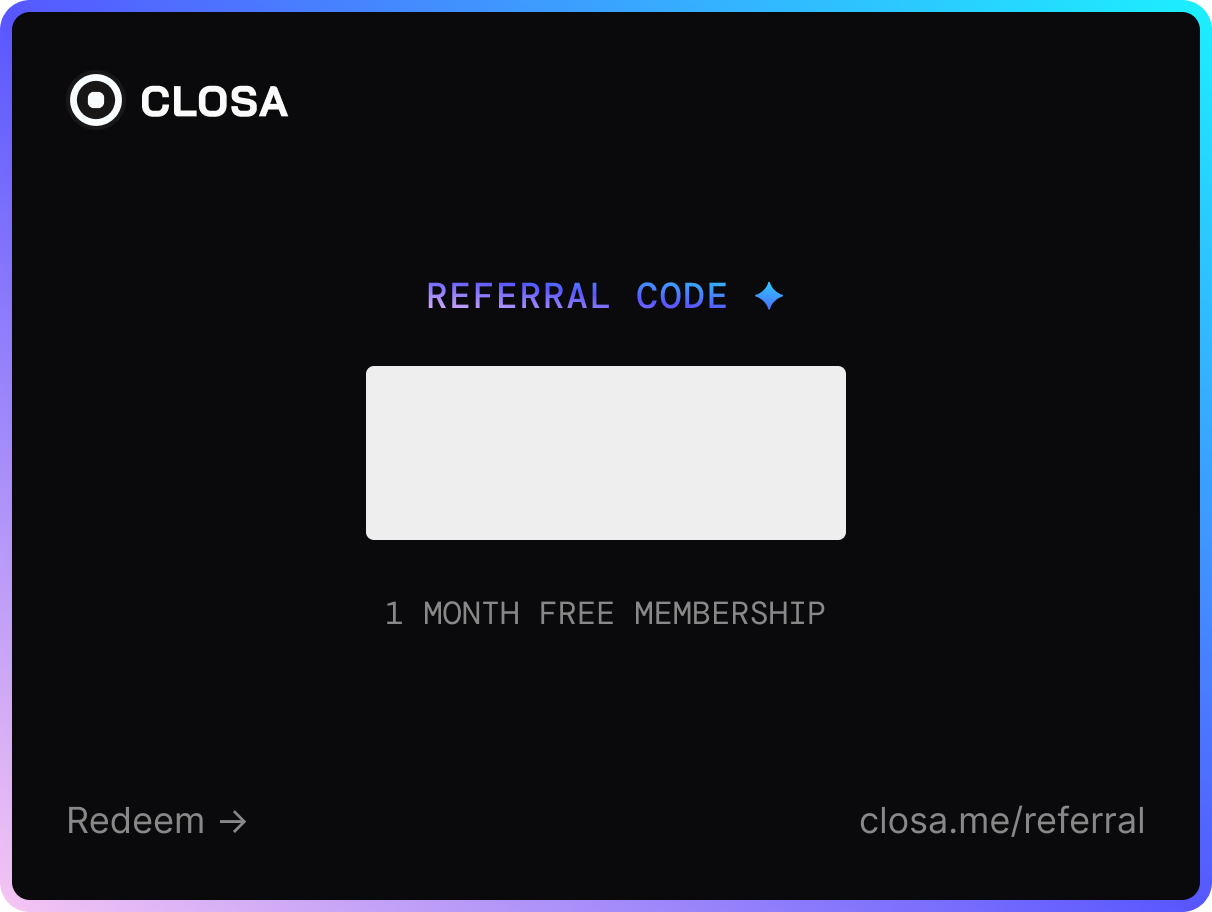
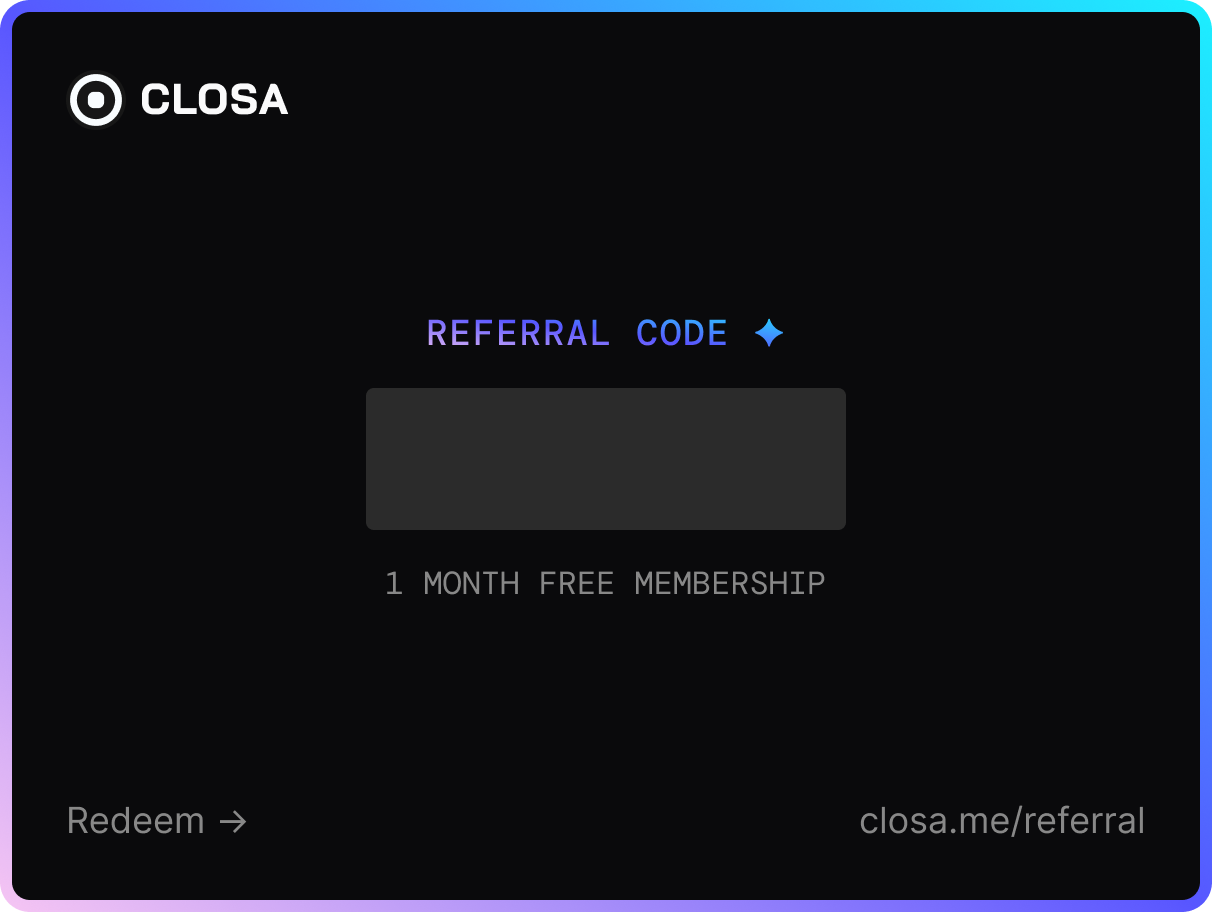
update asset image referral ticket

Changed region(s): [[0.2748, 0.307, 0.7021, 0.7061], [0.1221, 0.0921, 0.2442, 0.1228]]

diff --git a/helpers/GenerateImage.js b/helpers/GenerateImage.js
@@ -145,10 +145,10 @@ class GenerateImage{
  
         const template = await loadImage('./assets/images/referral_code.png')
         context.drawImage(template,0,0)
-        context.fillStyle = "#161F26"; 
+        context.fillStyle = "#FAFAFB"; 
         context.font = "400 48px IBMPlexMono";
         context.textAlign = 'center'
-        context.fillText(referralCode, 607 , 470);
+        context.fillText(referralCode, 607 , 478);
         
         context.fillStyle = "#888888"; 
         context.font = "500 28px DMMono";
